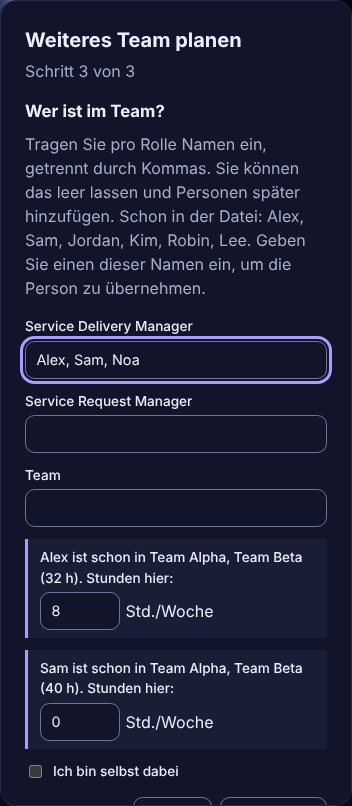
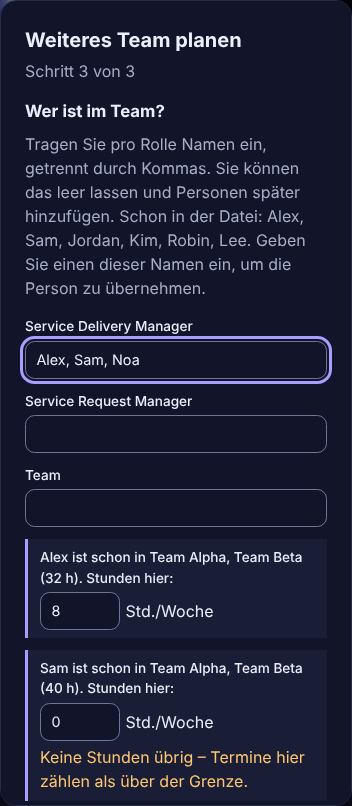
Apply review findings for split people hours (#274)
The Team view hint states the hours left instead of "Stunden hier", and
both hints say when no hours are left. On phones the Meeting load flag
shows a short "52 h > 40 h" with the sentence kept for screen readers.
Names entered only for an area role get no hours field, an invalid value
is marked and focused, and e2e tests cover a typed number and the
"Ich bin selbst dabei" path.

Changed region(s): [[0.0625, 0.9305, 0.875, 1.0], [0.9062, 0.9926, 0.9375, 1.0]]

diff --git a/tests/e2e/split-people.spec.ts b/tests/e2e/split-people.spec.ts
@@ -32,6 +32,52 @@ test('the setup wizard asks for the hours of a person already in another team', 
   await expect(panel(page).getByLabel('Weekly hours of Alex in Team Epsilon')).toHaveValue('6');
 });
 
+test('I take part myself: the wizard asks for my hours too, and says when none are left', async ({
+  page,
+}) => {
+  await openExample(page);
+  await openTeamView(page);
+  await teamAction(page, 'Plan another team');
+  const dialog = page.getByRole('dialog', { name: 'Plan another team' });
+  await dialog.getByRole('radio', { name: 'Kanban', exact: true }).check();
+  await dialog.getByRole('button', { name: 'Next' }).click();
+  await dialog.getByLabel('Team name').fill('Team Epsilon');
+  await dialog.getByRole('button', { name: 'Next' }).click();
+  await dialog.getByLabel('I take part myself').check();
+  await dialog.getByLabel('Your name').fill('Sam');
+  // Sam has 20 h in Alpha and in Beta: nothing is left of 40.
+  const hours = dialog.getByLabel('Sam is already in Team Alpha, Team Beta (40 h). Hours here:');
+  await expect(hours).toHaveValue('0');
+  await expect(hours).toHaveAccessibleDescription(
+    'No hours left – meetings here count as over the limit.',
+  );
+  // A negative number stops the form (min 0) and the field gets the focus.
+  await hours.fill('-2');
+  await dialog.getByRole('button', { name: 'Create team' }).click();
+  await expect(dialog).toBeVisible();
+  await expect(hours).toBeFocused();
+  await hours.fill('4');
+  await dialog.getByRole('button', { name: 'Create team' }).click();
+  await expect(dialog).toBeHidden();
+  await openTeamView(page);
+  await expect(panel(page).getByLabel('Weekly hours of Sam in Team Epsilon')).toHaveValue('4');
+});
+
+test('a number typed in the Team view wins over the hours left', async ({ page }) => {
+  await openExample(page);
+  await pickUnit(page, 'Team Gamma');
+  await openTeamView(page);
+  const team = panel(page);
+  await team.getByLabel('Person', { exact: true }).fill('Alex');
+  await team.getByLabel('Hrs/week in team').fill('12');
+  // The hint states what is left, not what was typed.
+  await expect(
+    team.getByText('Alex is already in Team Alpha, Team Beta (32 h), 8 h left.'),
+  ).toBeVisible();
+  await team.getByRole('button', { name: 'Add member' }).click();
+  await expect(team.getByLabel('Weekly hours of Alex in Team Gamma')).toHaveValue('12');
+});
+
 test('adding a person from another team fills in the hours left and flags too many', async ({
   page,
 }) => {
@@ -43,7 +89,7 @@ test('adding a person from another team fills in the hours left and flags too ma
   await team.getByLabel('Role', { exact: true }).selectOption({ label: 'Developer' });
   await expect(team.getByLabel('Hrs/week in team')).toHaveValue('8');
   await expect(
-    team.getByText('Alex is already in Team Alpha, Team Beta (32 h). Hours here: 8 h'),
+    team.getByText('Alex is already in Team Alpha, Team Beta (32 h), 8 h left.'),
   ).toBeVisible();
   await team.getByRole('button', { name: 'Add member' }).click();
   const gamma = team.getByLabel('Weekly hours of Alex in Team Gamma');
@@ -56,6 +102,11 @@ test('adding a person from another team fills in the hours left and flags too ma
   const load = page.getByRole('tabpanel', { name: 'Meeting load' });
   const row = load.locator('tr[data-person]').filter({ hasText: 'Alex' });
   await expect(row.getByText('52 h – more than 40 h a week')).toBeVisible();
+  // Phones show the short form; the sentence stays for screen readers.
+  await page.setViewportSize({ width: 390, height: 844 });
+  await expect(row.getByText('52 h > 40 h')).toBeVisible();
+  await expect(row.getByRole('rowheader')).toContainText('52 h – more than 40 h a week');
+  await page.setViewportSize({ width: 1280, height: 720 });
   await expect(load.locator('tr[data-person]').filter({ hasText: 'Kim' })).not.toContainText(
     'more than',
   );

diff --git a/src/ui/setup/SetupWizard.svelte b/src/ui/setup/SetupWizard.svelte
@@ -4,7 +4,7 @@
   import { capacity, hoursLeft, placesOf } from '../../core/load';
   import { record } from '../../core/record';
   import { setupTeam, type SetupMember } from '../../core/setup';
-  import { templateStart, type Template } from '../../core/template';
+  import { areaRoleIds, templateStart, type Template } from '../../core/template';
   import { BUILTIN_TEMPLATES, builtinTemplate, type BuiltinTemplateId } from '../../data/templates';
   import { formatDisplayDate, locale, translate as t } from '../../i18n';
   import { resolveRegion } from '../../core/regions';
@@ -44,6 +44,8 @@
   let problem = $state<{ key: string; path?: string } | null>(null);
   /** Hours typed for people already in another team, by name (trimmed, lower case). */
   let hoursHere = $state<Record<string, string>>({});
+  /** The name whose hours are not a valid number, if any. */
+  let badHours = $state<string | null>(null);
 
   const template = $derived<Template | null>(
     choice === 'none' ? null : builtinTemplate(choice, $locale),
@@ -79,7 +81,9 @@
     const ws = $workspace;
     const seen: string[] = [];
     const out: { key: string; name: string; places: string; hours: number; left: number }[] = [];
-    for (const m of members()) {
+    // Someone entered only for an area role (SAFe RTE) does not join the team: no hours asked.
+    const areaOnly = template ? areaRoleIds(template) : new Set<string>();
+    for (const m of members().filter((x) => !areaOnly.has(x.roleId))) {
       const key = m.name.trim().toLowerCase();
       if (key === '' || seen.includes(key)) continue;
       seen.push(key);
@@ -117,6 +121,7 @@
     startPicked = false;
     names = {};
     hoursHere = {};
+    badHours = null;
     me = false;
     myName = '';
     myRole = '';
@@ -174,7 +179,7 @@
     }
     const trimmed = name.trim();
     const hours = record<number>();
-    for (const a of already) {
+    for (const [i, a] of already.entries()) {
       const raw = hoursHere[a.key] ?? '';
       const n = raw.trim() === '' ? a.left : Number(raw);
       if (!Number.isFinite(n) || n < 0) {
@@ -182,6 +187,8 @@
           key: 'error.number.invalid',
           path: get(t)('team.members.hoursOf', { name: a.name, team: trimmed }),
         };
+        badHours = a.key;
+        document.getElementById(`${uid}-hours-${i}`)?.focus();
         return;
       }
       hours[a.key] = n;
@@ -338,9 +345,17 @@
                 min="0"
                 step="0.5"
                 value={hoursHere[a.key] ?? String(a.left)}
-                oninput={(e) => (hoursHere[a.key] = e.currentTarget.value)}
+                aria-invalid={badHours === a.key ? 'true' : undefined}
+                aria-describedby={a.left === 0 ? `${uid}-none-${i}` : undefined}
+                oninput={(e) => {
+                  hoursHere[a.key] = e.currentTarget.value;
+                  if (badHours === a.key) badHours = null;
+                }}
               />{$t('settings.people.unit')}</span
             >
+            {#if a.left === 0}
+              <p class="none-left" id="{uid}-none-{i}">{$t('team.people.noneLeft')}</p>
+            {/if}
           </div>
         {/each}
         <div class="me">
@@ -511,6 +526,11 @@
   }
   .already input {
     width: 5rem;
+  }
+  .none-left {
+    flex-basis: 100%;
+    margin: 0;
+    color: var(--warn);
   }
   .check {
     display: flex;

diff --git a/src/ui/views/LoadView.svelte b/src/ui/views/LoadView.svelte
@@ -323,11 +323,13 @@
             >
             {#if over}<span class="over-tag">{$t('load.over')}</span>{/if}
             {#if overbooked($workspace, p.person.id)}
+              {@const total = weekly(capacity($workspace, p.person.id))}
               <span class="overbooked" data-overbooked
-                >{$t('team.people.over', {
-                  hours: weekly(capacity($workspace, p.person.id)),
-                  max: weekly(hpw),
-                })}</span
+                ><span class="long"
+                  >{$t('team.people.over', { hours: total, max: weekly(hpw) })}</span
+                ><span class="short" aria-hidden="true"
+                  >{$t('team.people.overShort', { hours: total, max: weekly(hpw) })}</span
+                ></span
               >
             {/if}
           </th>
@@ -795,6 +797,24 @@
     color: var(--warn);
     font-size: 0.8rem;
     font-weight: 600;
+  }
+  .overbooked .short {
+    display: none;
+  }
+  /* Phones: the short form fits the narrow name column; the sentence stays for screen readers. */
+  @media (max-width: 600px) {
+    .overbooked .short {
+      display: inline;
+      white-space: nowrap;
+    }
+    .overbooked .long {
+      position: absolute;
+      width: 1px;
+      height: 1px;
+      overflow: hidden;
+      clip-path: inset(50%);
+      white-space: nowrap;
+    }
   }
   .units {
     color: var(--text-muted);

diff --git a/src/ui/views/TeamView.svelte b/src/ui/views/TeamView.svelte
@@ -413,13 +413,13 @@
             </form>
             {#if elsewhere}
               <p class="hint" id="{uid}-elsewhere" data-no-present>
-                {$t('team.people.already', {
+                {$t('team.people.left', {
                   name: elsewhere.name,
                   units: elsewhere.places,
                   hours: hours(elsewhere.hours),
+                  left: hours(elsewhere.left),
                 })}
-                {hours(elsewhere.left)}
-                {$t('settings.people.unit')}
+                {#if elsewhere.left === 0}{$t('team.people.noneLeft')}{/if}
               </p>
             {/if}
             {@render err('member-add')}
